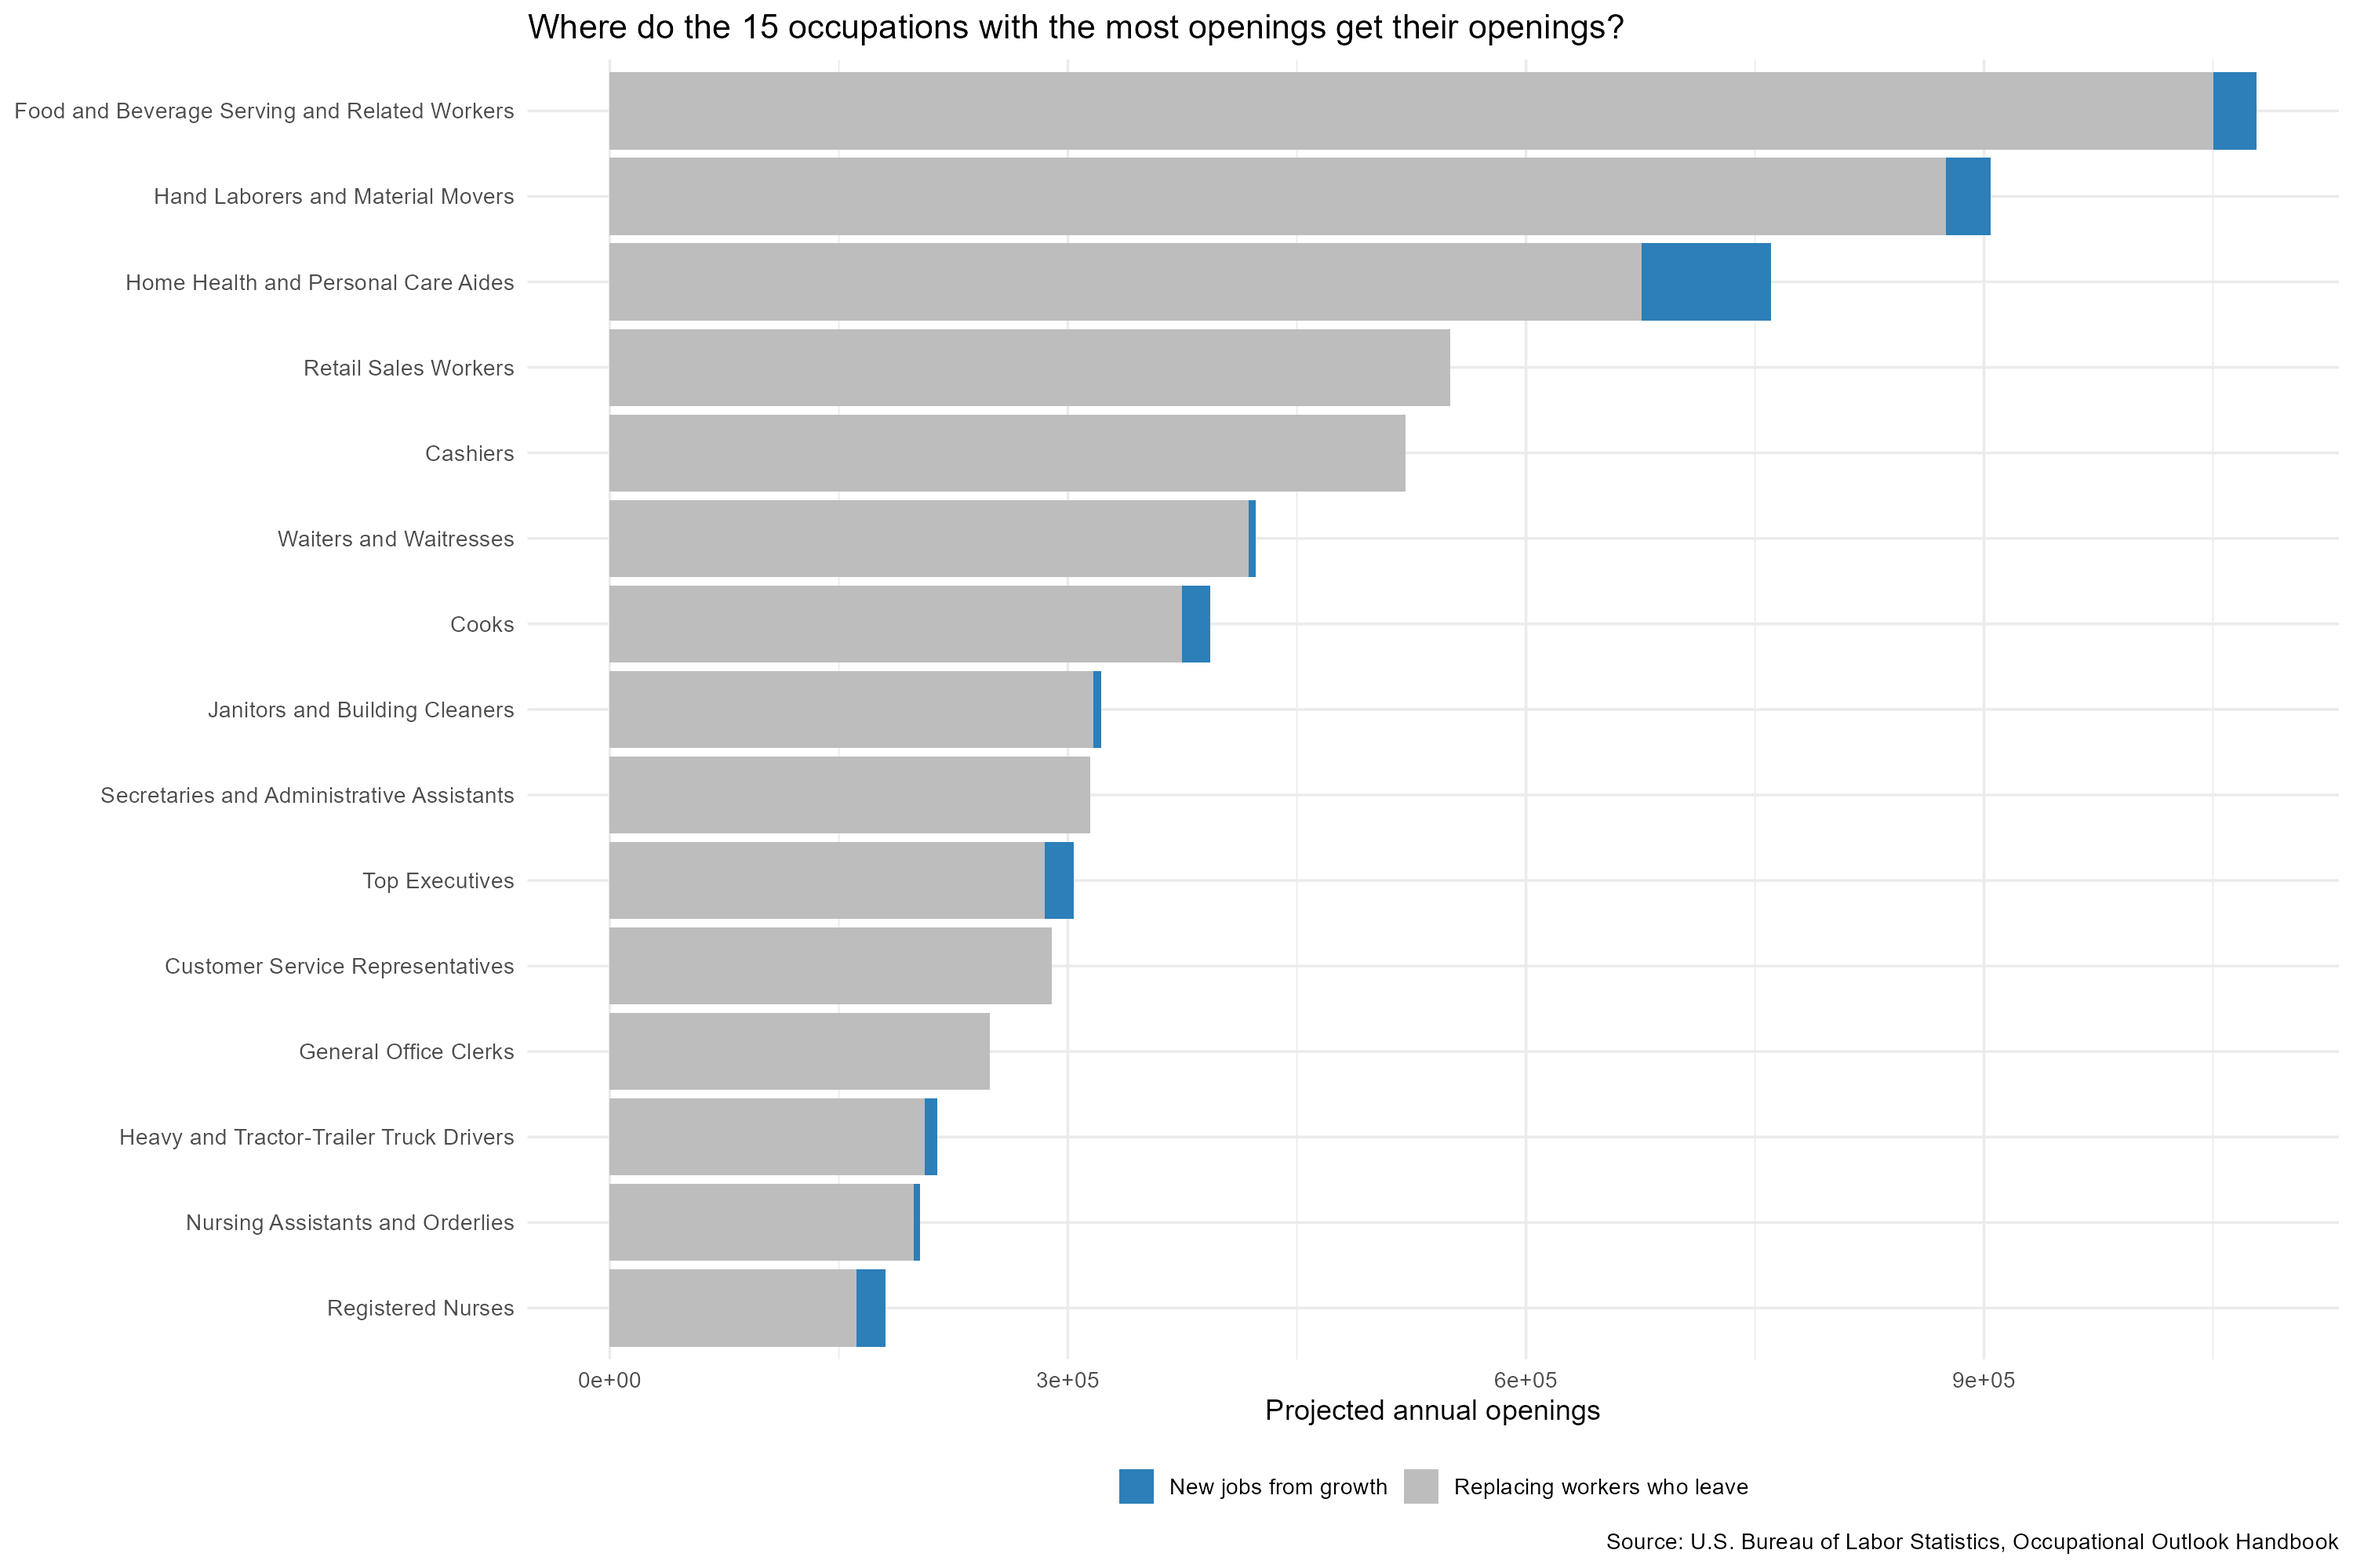
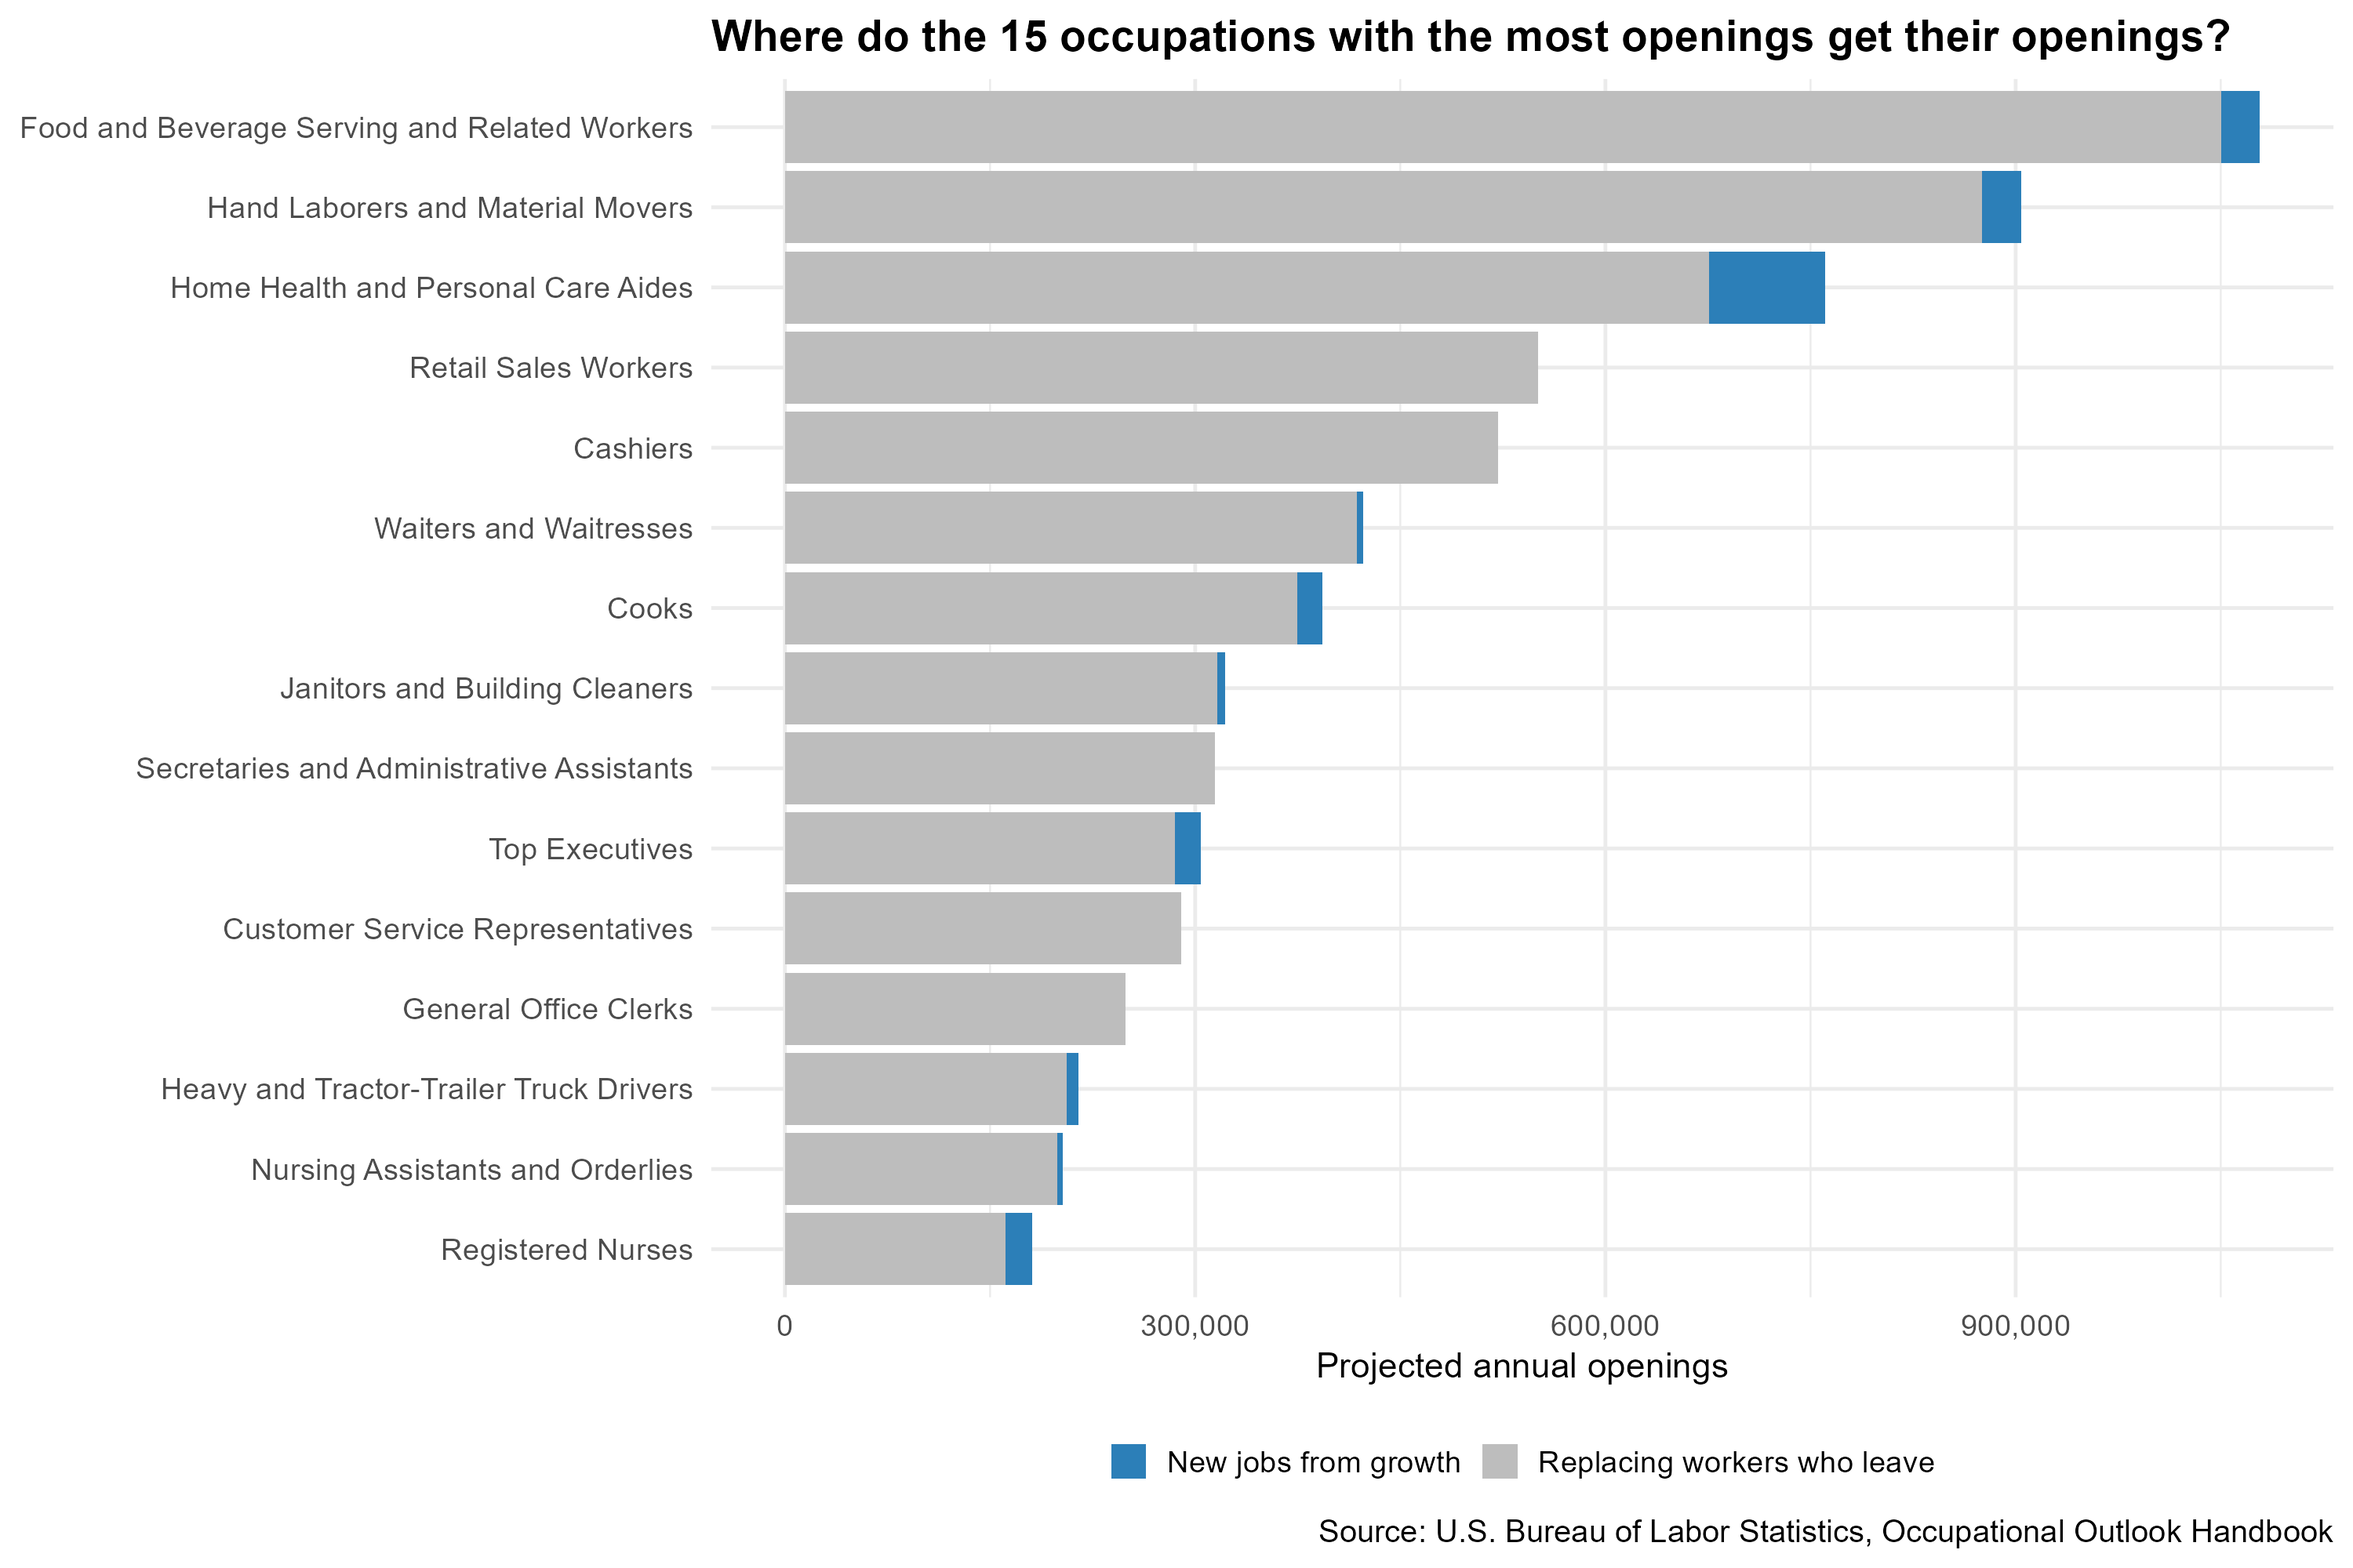
cover pic

diff --git a/docs/blog/posts/post2/index.html b/docs/blog/posts/post2/index.html
@@ -2,13 +2,13 @@
 <html xmlns="http://www.w3.org/1999/xhtml" lang="en" xml:lang="en"><head>
 
 <meta charset="utf-8">
-<meta name="generator" content="quarto-1.6.42">
+<meta name="generator" content="quarto-1.5.57">
 
 <meta name="viewport" content="width=device-width, initial-scale=1.0, user-scalable=yes">
 
 <meta name="dcterms.date" content="2026-06-16">
 
-<title>My Second Blog Post – Student Name</title>
+<title>My Second Blog Post – Clara Xu</title>
 <style>
 code{white-space: pre-wrap;}
 span.smallcaps{font-variant: small-caps;}
@@ -36,10 +36,10 @@ ul.task-list li input[type="checkbox"] {
 <script src="../../../site_libs/quarto-html/tippy.umd.min.js"></script>
 <script src="../../../site_libs/quarto-html/anchor.min.js"></script>
 <link href="../../../site_libs/quarto-html/tippy.css" rel="stylesheet">
-<link href="../../../site_libs/quarto-html/quarto-syntax-highlighting-2f5df379a58b258e96c21c0638c20c03.css" rel="stylesheet" id="quarto-text-highlighting-styles">
+<link href="../../../site_libs/quarto-html/quarto-syntax-highlighting.css" rel="stylesheet" id="quarto-text-highlighting-styles">
 <script src="../../../site_libs/bootstrap/bootstrap.min.js"></script>
 <link href="../../../site_libs/bootstrap/bootstrap-icons.css" rel="stylesheet">
-<link href="../../../site_libs/bootstrap/bootstrap-d1b12f2568ecbe55642fee6aa00bd082.min.css" rel="stylesheet" append-hash="true" id="quarto-bootstrap" data-mode="light">
+<link href="../../../site_libs/bootstrap/bootstrap.min.css" rel="stylesheet" id="quarto-bootstrap" data-mode="light">
 <script id="quarto-search-options" type="application/json">{
   "location": "navbar",
   "copy-button": false,
@@ -80,7 +80,7 @@ ul.task-list li input[type="checkbox"] {
       <div class="navbar-container container-fluid">
       <div class="navbar-brand-container mx-auto">
     <a class="navbar-brand" href="../../../index.html">
-    <span class="navbar-title">Student Name</span>
+    <span class="navbar-title">Clara Xu</span>
     </a>
   </div>
             <div id="quarto-search" class="" title="Search"></div>
@@ -238,6 +238,8 @@ window.document.addEventListener("DOMContentLoaded", function (event) {
   });
   clipboard.on('success', onCopySuccess);
   if (window.document.getElementById('quarto-embedded-source-code-modal')) {
+    // For code content inside modals, clipBoardJS needs to be initialized with a container option
+    // TODO: Check when it could be a function (https://github.com/zenorocha/clipboard.js/issues/860)
     const clipboardModal = new window.ClipboardJS('.code-copy-button[data-in-quarto-modal]', {
       text: getTextToCopy,
       container: window.document.getElementById('quarto-embedded-source-code-modal')
@@ -348,6 +350,7 @@ window.document.addEventListener("DOMContentLoaded", function (event) {
       if (window.Quarto?.typesetMath) {
         window.Quarto.typesetMath(note);
       }
+      // TODO in 1.5, we should make sure this works without a callout special case
       if (note.classList.contains("callout")) {
         return note.outerHTML;
       } else {
@@ -577,10 +580,10 @@ window.document.addEventListener("DOMContentLoaded", function (event) {
 <footer class="footer">
   <div class="nav-footer">
     <div class="nav-footer-left">
-<p><img src="../../../images/UniversityofPennsylvania_FullLogo_RGB.png" class="img-fluid" width="100"></p>
+<p><img src="../../..\images/UniversityofPennsylvania_FullLogo_RGB.png" class="img-fluid" width="100"></p>
 </div>   
     <div class="nav-footer-center">
-<p>© 2026 Student Name</p>
+<p>© 2026 Clara Xu</p>
 </div>
     <div class="nav-footer-right">
       &nbsp;
